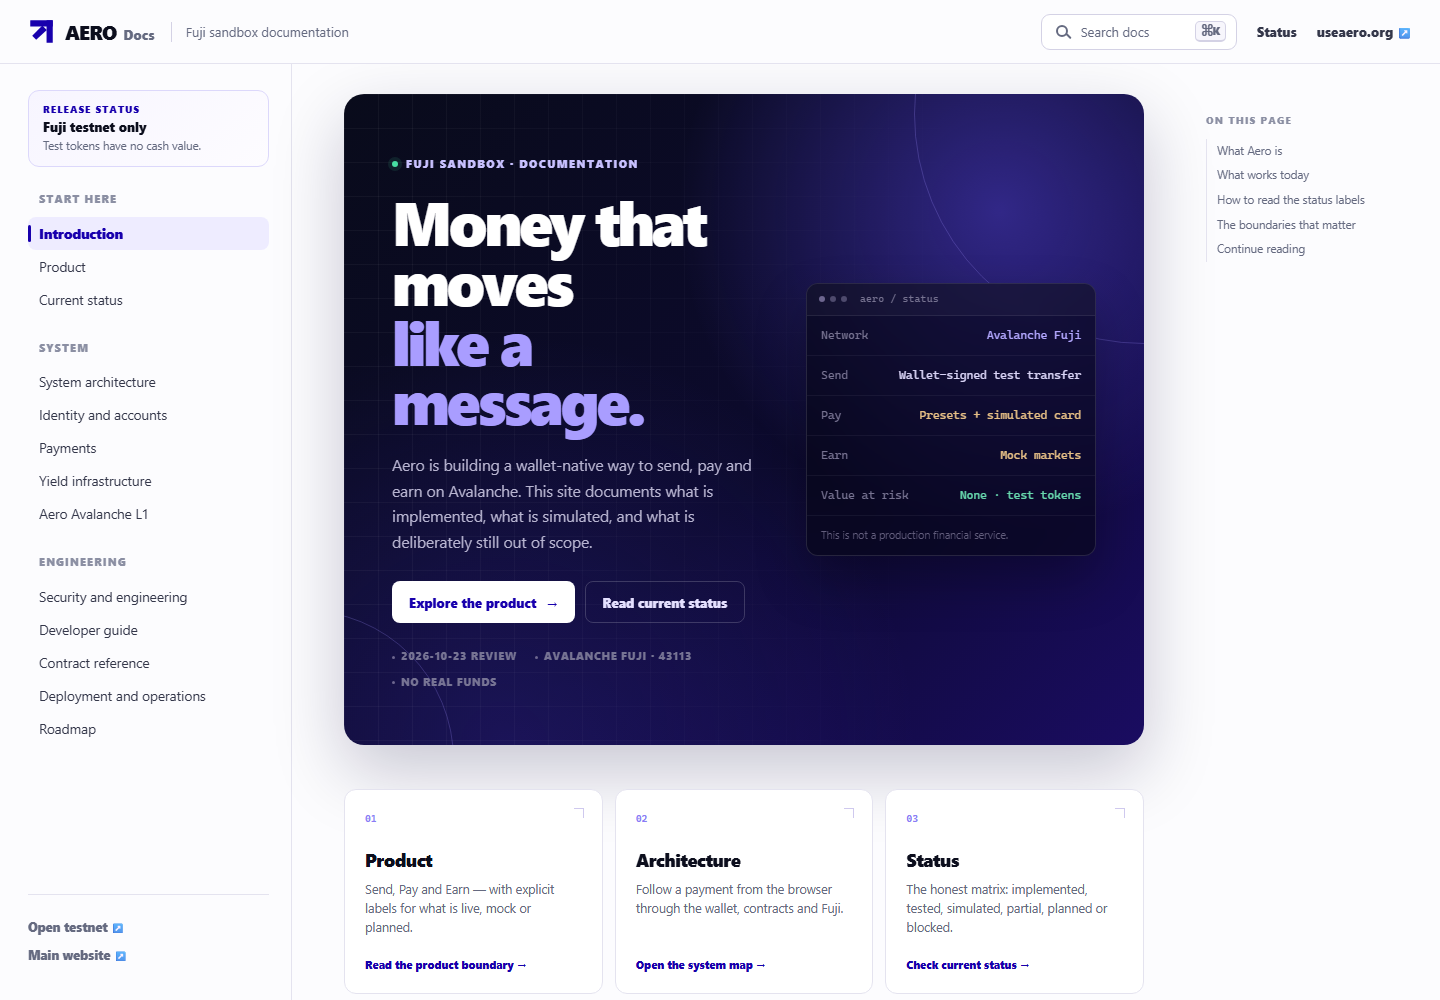
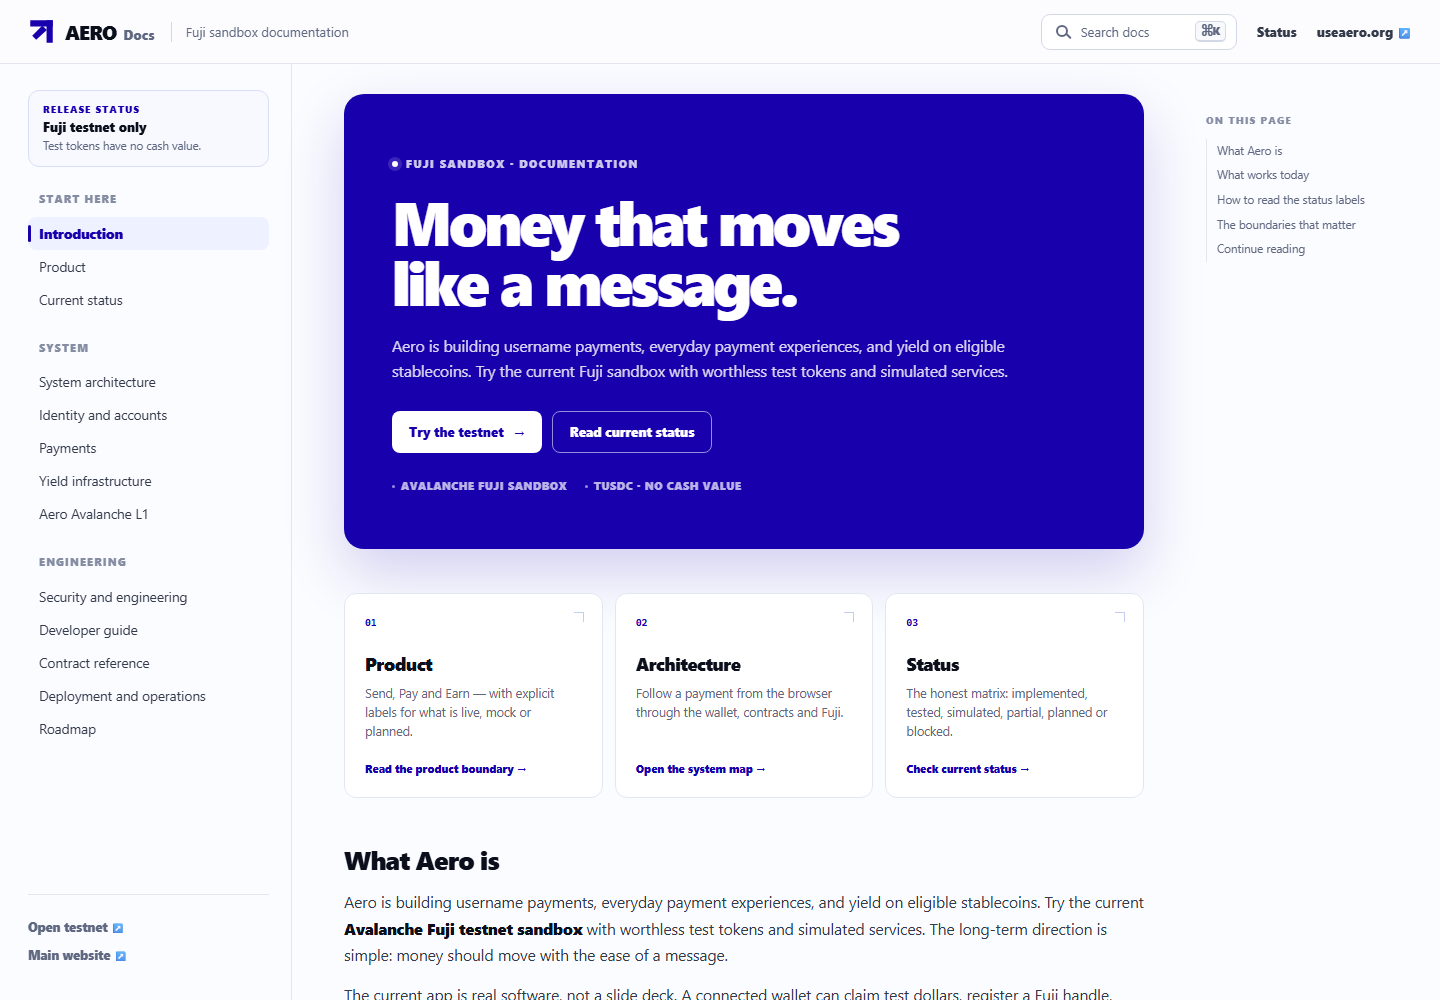
docs: finish the blue brand pass and refresh product artwork
Moves the Mermaid diagram theme to Aero blue and white, replaces the purple README banner with a minimal flat-blue version, and refreshes the docs capture and product showcase with the new blue docs site.

diff --git a/docs/src/assets/app.js b/docs/src/assets/app.js
@@ -143,26 +143,26 @@
         securityLevel: "strict",
         fontFamily: "Inter, ui-sans-serif, system-ui, -apple-system, BlinkMacSystemFont, Segoe UI, sans-serif",
         themeVariables: {
-          primaryColor: "#eeecff",
-          primaryTextColor: "#101225",
+          primaryColor: "#eef1ff",
+          primaryTextColor: "#0b0f1c",
           primaryBorderColor: "#1800ad",
-          lineColor: "#7770c7",
-          secondaryColor: "#f3f2fb",
+          lineColor: "#7d88b8",
+          secondaryColor: "#f7f9fd",
           tertiaryColor: "#ffffff",
           fontFamily: "Inter, ui-sans-serif, system-ui, -apple-system, BlinkMacSystemFont, Segoe UI, sans-serif",
           fontSize: "14px",
-          clusterBkg: "#faf9ff",
-          clusterBorder: "#dcd8fb",
-          edgeLabelBackground: "#fcfcfe",
+          clusterBkg: "#f7f9ff",
+          clusterBorder: "#d8def7",
+          edgeLabelBackground: "#fbfcff",
           nodeBorder: "#1800ad",
-          actorBkg: "#eeecff",
+          actorBkg: "#eef1ff",
           actorBorder: "#1800ad",
-          actorTextColor: "#101225",
-          signalColor: "#5d4cc6",
-          signalTextColor: "#101225",
+          actorTextColor: "#0b0f1c",
+          signalColor: "#1800ad",
+          signalTextColor: "#0b0f1c",
           labelBoxBkgColor: "#fff",
-          labelBoxBorderColor: "#dcd8fb",
-          labelTextColor: "#101225",
+          labelBoxBorderColor: "#d8def7",
+          labelTextColor: "#0b0f1c",
         },
         flowchart: { curve: "basis", htmlLabels: true, useMaxWidth: true },
         sequence: { useMaxWidth: true, wrap: true },

diff --git a/AERO_README_REVAMP_REPORT.md b/AERO_README_REVAMP_REPORT.md
@@ -67,19 +67,19 @@ Created under `assets/readme/`:
 |---|---|
 | `aero-logo-light.svg` | Traced vector light lockup; valid XML |
 | `aero-logo-dark.svg` | Traced vector dark lockup; valid XML |
-| `hero.svg` | 1280×460 brand banner: “Send. Pay. Earn.”, Fuji status panel, test-token disclaimer |
+| `hero.svg` | 1280×460 brand banner: “Send. Pay. Earn.”, one-line Fuji descriptor, test-token status and site URLs |
 | `product-landing.png` | Genuine capture of the running marketing site |
 | `product-testnet.png` | Genuine capture of the Fuji sandbox entry gate |
-| `product-docs.png` | Genuine capture of the built documentation site |
-| `product-showcase.png` | 2200×1000 composition of the three genuine captures, preserving aspect ratios |
+| `product-docs.png` | Genuine capture of the blue standalone documentation site |
+| `product-showcase.png` | 2200×1000 composition of the three genuine captures, including the blue docs site |
 
 No demo GIF was produced. The sandbox requires a connected wallet, and a genuine walkthrough could not be recorded without one. Fabricating a demo was explicitly avoided.
 
 ## 2. Design decisions
 
-- **Brand continuity.** Reused the existing Aero identity: primary blue `#1800AD`, near-black navy, white and muted lavender accents. No new palette was invented.
+- **Brand continuity.** Reused the existing Aero identity: primary blue `#1800AD`, white and blue-tinted neutrals. No lavender or purple accents remain.
 - **Hero hierarchy.** The SVG banner carries the product verbs and status; the README headline carries the tagline as selectable text. This avoids duplicating the tagline in both places.
-- **Theme-aware logos.** Light and dark lockups are provided as `<picture>`-ready SVGs. The hero uses a white lockup on the dark gradient so it works in both GitHub themes.
+- **Theme-aware logos.** Light and dark lockups are provided as `<picture>`-ready SVGs. The hero uses a white lockup on flat Aero blue so it works in both GitHub themes.
 - **Status language over marketing language.** Every surface uses one of the required labels: Implemented, Tested, Fuji testnet, Mock/demo, Partially implemented, Planned, Blocked, Not supported.
 - **Boundary first.** The README states the sandbox boundary before the feature matrix, and the docs repeat it on the Product and Status pages.
 - **Evidence over adjectives.** Test counts, build results and blockers are stated as recorded evidence, not as guarantees.
@@ -92,7 +92,7 @@ All product captures are real screenshots of the running application or the buil
 
 - `product-landing.png`: `http://localhost:3000/` at 1440×1000.
 - `product-testnet.png`: `http://localhost:3000/testnet` at 1440×1100.
-- `product-docs.png`: the locally built docs site at 1440×1000.
+- `product-docs.png`: the locally built blue docs site at 1440×1000.
 - `product-showcase.png`: composed from those three captures at 2200×1000.
 
 The screenshots show the public surfaces only. The authenticated Send/Pay/Earn dashboard requires a wallet connection and was not captured. The README labels the in-page product illustration as illustrative and does not present it as a live dashboard.
